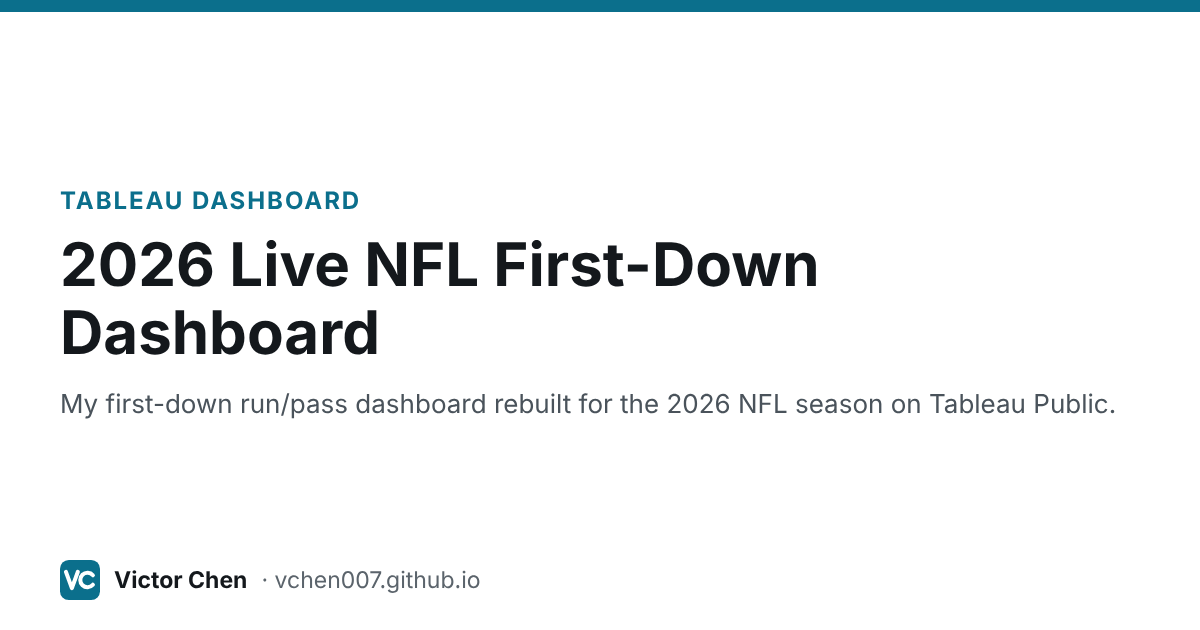
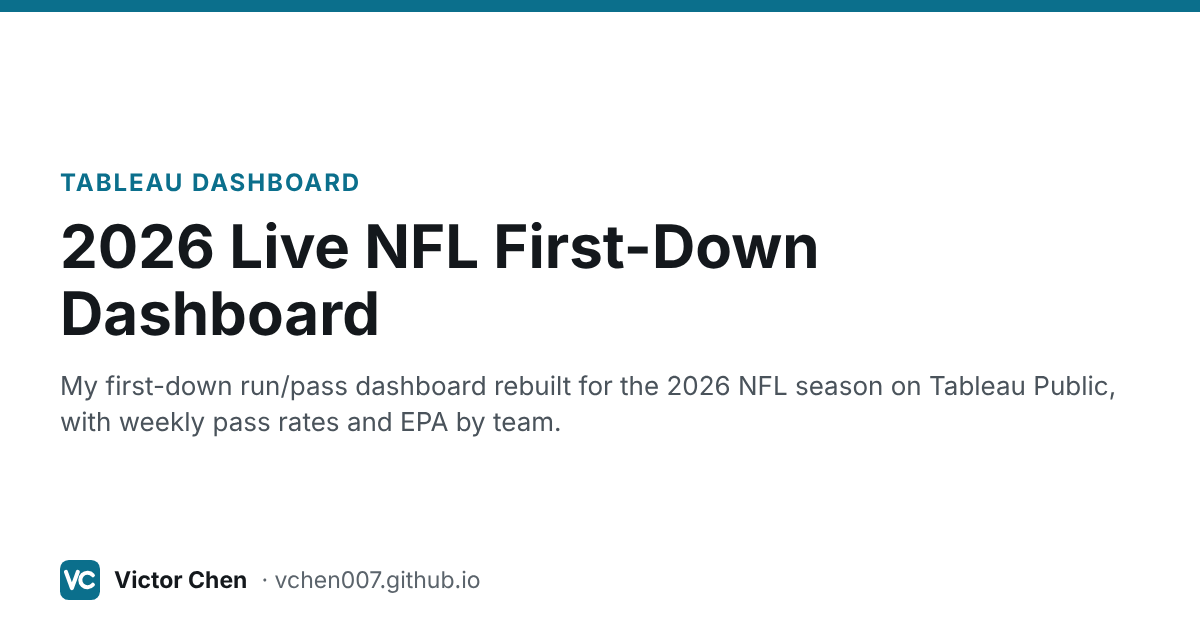
Fix accessibility issues found by axe and refine project summaries
axe-core (WCAG 2.1 AA + best practices) now reports no violations on any
page in either theme. The original site had 214 low-contrast text elements
across nine pages plus a missing image description.

- Darken the light-theme code colours (comments were 3.2:1)
- Keep the disabled pagination link readable
- Label the main and pagination navigation landmarks
- Fix skipped heading levels (share title, project card titles)
- Give pandas tables' empty index header cells screen-reader text
- Make sideways-scrolling tables and code blocks keyboard-focusable
  (assets/js/site.js)
- Proper roles on the chart hit areas of the first-down page
- The 2026 dashboard already tracks EPA by week: say so in its summary and
  position the new page as the ten-season view

Claude-Session: https://claude.ai/code/session_018GuBXZc9pLRR1YqU5q2Umb

Changed region(s): [[0.0308, 0.2714, 0.6783, 0.573], [0.0308, 0.573, 0.925, 0.6937]]

diff --git a/assets/js/first-down-epa.js b/assets/js/first-down-epa.js
@@ -124,7 +124,7 @@
     });
     /* crosshair + tooltip */
     var tip = tooltip(host), cross = el('line', { y1: m.t, y2: H - m.b, 'class': 'crosshair', visibility: 'hidden' }, svg);
-    var hit = el('rect', { x: m.l - 10, y: 0, width: W - m.l - m.r + 20, height: H, fill: 'transparent', tabindex: 0, 'aria-label': 'Chart values: move across to read each season' }, svg);
+    var hit = el('rect', { x: m.l - 10, y: 0, width: W - m.l - m.r + 20, height: H, fill: 'transparent', tabindex: 0, role: 'img', 'aria-label': 'Chart values: use the left and right arrow keys to read each season' }, svg);
     function at(i) {
       var p = points[i]; cross.setAttribute('x1', x(i)); cross.setAttribute('x2', x(i)); cross.setAttribute('visibility', 'visible');
       var rows = series.filter(function (s) { return isFinite(s.get(p)); }).map(function (s) { return { key: s.key, value: opts.fmt(s.get(p), true), label: s.tipLabel }; });
@@ -173,7 +173,7 @@
       var hl = p.team === state.team, cx = x(p.st.passRate), cy = y(p.st.all);
       el('circle', { cx: cx, cy: cy, r: hl ? 7 : 5, 'class': 'dot' + (hl ? ' dot--hl' : '') }, svg);
       if (hl || W >= 560) text(svg, cx, cy - (hl ? 11 : 8), p.team, 'dot-label' + (hl ? ' dot-label--hl' : ''));
-      var hit = el('circle', { cx: cx, cy: cy, r: 12, 'class': 'hit', tabindex: 0, 'aria-label': p.team + ': ' + fmtPct(p.st.passRate) + ' passes, ' + fmtEpa(p.st.all) + ' EPA per play' }, svg);
+      var hit = el('circle', { cx: cx, cy: cy, r: 12, 'class': 'hit', tabindex: 0, role: 'button', 'aria-label': p.team + ': ' + fmtPct(p.st.passRate) + ' passes, ' + fmtEpa(p.st.all) + ' EPA per play' }, svg);
       var show = function () { tip.show(p.team, [
         { value: fmtPct(p.st.passRate), label: 'pass rate' },
         { key: 'pass', value: fmtEpa(p.st.pass), label: 'EPA per pass' },

diff --git a/_portfolio/portfolio-1.html b/_portfolio/portfolio-1.html
@@ -1,6 +1,6 @@
 ---
 title: "2026 Live NFL First-Down Dashboard"
-excerpt: "My first-down run/pass dashboard rebuilt for the 2026 NFL season on Tableau Public."
+excerpt: "My first-down run/pass dashboard rebuilt for the 2026 NFL season on Tableau Public, with weekly pass rates and EPA by team."
 kicker: "Tableau dashboard"
 collection: portfolio
 featured: true
@@ -9,10 +9,10 @@ teaser: "https://public.tableau.com/static/images/20/2026LiveFirstDownDashboard/
 og_image: og/portfolio-1.png
 tools: [Tableau]
 summary:
-  question: "How often are NFL teams running or passing on first down in the 2026 season?"
-  data: "NFL play-by-play data for the 2026 season."
-  approach: "An updated version of my original [first-down dashboard](/portfolio/portfolio-6/), rebuilt for the 2026 season and published on Tableau Public."
-  result: "The full-size interactive dashboard below. For what those first-down calls actually gain, see [Does passing on first down pay off?](/portfolio/first-down-epa/)"
+  question: "How often are NFL teams running or passing on first down in the 2026 season, and what does each choice gain?"
+  data: "NFL play-by-play data for the 2026 regular season, refreshed as the season goes."
+  approach: "An updated version of my original [first-down dashboard](/portfolio/portfolio-6/), rebuilt for 2026 on Tableau Public: each team's pass vs. run share by week, its EPA per play against the NFL average, and first-down pass vs. run EPA."
+  result: "The full-size interactive dashboard below. For the same question across ten seasons, see [Does passing on first down pay off?](/portfolio/first-down-epa/)"
 links:
   - label: "Open in Tableau Public"
     url: "https://public.tableau.com/app/profile/victor.c4632/viz/2026LiveFirstDownDashboard/Dashboard2"

diff --git a/_sass/_theme.scss b/_sass/_theme.scss
@@ -58,13 +58,13 @@
   --c-shadow-hover: 0 2px 4px rgba(16, 24, 40, 0.08), 0 10px 24px rgba(16, 24, 40, 0.12);
   --c-img-bg: transparent;
   --syn-base: #586e75;
-  --syn-comment: #7f8f8f;
-  --syn-green: #6f8000;
-  --syn-blue: #1b8fc0;
-  --syn-cyan: #228a83;
-  --syn-orange: #cb4b16;
-  --syn-red: #dc322f;
-  --syn-yellow: #a77d00;
+  --syn-comment: #5f6f6f;
+  --syn-green: #5b7a00;
+  --syn-blue: #1677a3;
+  --syn-cyan: #1d7a74;
+  --syn-orange: #b8430f;
+  --syn-red: #c42b28;
+  --syn-yellow: #8a6700;
 }
 
 html[data-theme="dark"] {
@@ -230,7 +230,8 @@ thead {
   }
 
   &.disabled {
-    color: var(--c-border-strong);
+    color: var(--c-muted);
+    opacity: 1;
   }
 }
 

diff --git a/_includes/project-card.html b/_includes/project-card.html
@@ -15,7 +15,7 @@
   {% endif %}
   <div class="project-card__body">
     {% if project.kicker %}<p class="project-card__kicker">{{ project.kicker }}</p>{% endif %}
-    <h3 class="project-card__title"><a href="{{ base_path }}{{ project.url }}">{{ project.title }}</a></h3>
+    {% assign level = include.level | default: 3 %}<h{{ level }} class="project-card__title"><a href="{{ base_path }}{{ project.url }}">{{ project.title }}</a></h{{ level }}>
     {% if project.excerpt %}<p class="project-card__excerpt">{{ project.excerpt | markdownify | strip_html | strip_newlines }}</p>{% endif %}
     {% if project.tools %}
       <ul class="chips" aria-label="Tools">

diff --git a/assets/js/site.js b/assets/js/site.js
@@ -1,0 +1,12 @@
+/* Small site-wide helpers. Wide tables and code blocks scroll sideways; make
+   the ones that actually overflow reachable with the keyboard. */
+(function () {
+  var nodes = document.querySelectorAll('.page__content table, .page__content pre');
+  Array.prototype.forEach.call(nodes, function (node) {
+    if (node.scrollWidth > node.clientWidth + 1 && !node.hasAttribute('tabindex')) {
+      node.setAttribute('tabindex', '0');
+      node.setAttribute('role', 'region');
+      node.setAttribute('aria-label', node.tagName === 'PRE' ? 'Code (scrolls sideways)' : 'Table (scrolls sideways)');
+    }
+  });
+})();

diff --git a/_includes/social-share.html b/_includes/social-share.html
@@ -2,7 +2,7 @@
 
 <section class="page__share">
   {% if site.data.ui-text[site.locale].share_on_label %}
-    <h4 class="page__share-title">{{ site.data.ui-text[site.locale].share_on_label | default: "Share on" }}</h4>
+    <p class="page__share-title">{{ site.data.ui-text[site.locale].share_on_label | default: "Share on" }}</p>
   {% endif %}
 
   <a href="https://twitter.com/intent/tweet?text={{ base_path }}{{ page.url }}" class="btn btn--twitter" title="{{ site.data.ui-text[site.locale].share_on_label | default: 'Share on' }} Twitter"><i class="fab fa-twitter" aria-hidden="true"></i><span> Twitter</span></a>

diff --git a/_includes/masthead.html b/_includes/masthead.html
@@ -3,7 +3,7 @@
 <div class="masthead">
   <div class="masthead__inner-wrap">
     <div class="masthead__menu">
-      <nav id="site-nav" class="greedy-nav">
+      <nav id="site-nav" class="greedy-nav" aria-label="Main">
         <button class="hidden" aria-label="More pages"><div class="navicon"></div></button>
         <ul class="visible-links">
           <li class="masthead__menu-item masthead__menu-item--lg"><a href="{{ base_path }}/">{{ site.title }}</a></li>

diff --git a/_includes/post_pagination.html b/_includes/post_pagination.html
@@ -1,7 +1,7 @@
 {% include base_path %}
 
 {% if page.previous or page.next %}
-  <nav class="pagination">
+  <nav class="pagination" aria-label="More projects">
     {% if page.previous %}
       <a href="{{ base_path }}{{ page.previous.url }}" class="pagination--pager" title="{{ page.previous.title | markdownify | strip_html }}">{{ site.data.ui-text[site.locale].pagination_previous | default: "Previous" }}</a>
     {% else %}

diff --git a/_includes/scripts.html b/_includes/scripts.html
@@ -1,5 +1,6 @@
 <script src="{{ base_path }}/assets/js/main.min.js"></script>
 <script src="{{ base_path }}/assets/js/theme-toggle.js"></script>
+<script src="{{ base_path }}/assets/js/site.js"></script>
 
 {% include analytics.html %}
 {% include /comments-providers/scripts.html %}

diff --git a/_pages/portfolio.html b/_pages/portfolio.html
@@ -12,6 +12,6 @@ author_profile: true
 
 <div class="project-grid">
 {% for project in site.portfolio %}
-  {% include project-card.html project=project %}
+  {% include project-card.html project=project level=2 %}
 {% endfor %}
 </div>

diff --git a/_portfolio/portfolio-0.md b/_portfolio/portfolio-0.md
@@ -9,7 +9,7 @@ teaser: first-down-epa.png
 og_image: og/portfolio-0.png
 tools: [Python, pandas, nflverse, JavaScript, SVG]
 summary:
-  question: "My Tableau dashboards show how often NFL teams run or pass on first down. Which choice actually gains more?"
+  question: "Over a decade of NFL play-by-play, does a first-down pass or run gain more, and has play-calling caught up?"
   data: "Every regular-season first-down run and pass from 2016 through Week 8 of 2026 (157,728 plays), from nflverse play-by-play, which includes expected points added (EPA) for each play."
   approach: "A Python pipeline filters the plays, sorts each one by game situation and field position, and writes a compact data file. The charts below are drawn in plain JavaScript and SVG, so every filter recalculates in the browser."
   result: "In neutral game situations, first-down passes averaged +0.10 EPA per play and runs −0.10, a gap that shows up in every season. Teams still passed only 47% of the time, and runs beat passes in just 23 of 352 team-seasons."
@@ -20,7 +20,7 @@ links:
     url: "https://github.com/vchen007/vchen007.github.io/blob/master/_scripts/first_down_epa.py"
 ---
 
-My [first-down dashboards](/portfolio/portfolio-6/) show how often teams run or pass on first down. This follow-up asks the next question: what does each choice gain? I measure that with **expected points added (EPA)**, which compares the expected points of the next play's down, distance and field position with those before the snap. A 5-yard run on 1st & 10 is worth a little; a 20-yard completion is worth a lot; a sack or interception costs points.
+My [first-down dashboard](/portfolio/portfolio-6/) shows how often teams run or pass on first down, and the [2026 live version](/portfolio/portfolio-1/) tracks this season's run/pass split and EPA. This page steps back to ten-plus seasons and asks whether the choice pays off, and whether play-calling has changed because of it. I measure the payoff with **expected points added (EPA)**, which compares the expected points of the next play's down, distance and field position with those before the snap. A 5-yard run on 1st & 10 is worth a little; a 20-yard completion is worth a lot; a sack or interception costs points.
 
 <div class="fd-tiles" id="fd-tiles" aria-live="polite">
   <div class="fd-tile"><span class="fd-tile__value" data-tile="passRate">47%</span><span class="fd-tile__label">of first-down plays were passes</span></div>
@@ -58,17 +58,17 @@ My [first-down dashboards](/portfolio/portfolio-6/) show how often teams run or 
 
   <figure class="fd-chart">
     <figcaption><strong>EPA per play on first down, by season</strong><span class="fd-legend"><span class="fd-key fd-key--pass"></span>Passes <span class="fd-key fd-key--run"></span>Runs</span></figcaption>
-    <div class="fd-svg" id="fd-trend" role="img" aria-label="Line chart of EPA per play for first-down passes and runs by season"></div>
+    <div class="fd-svg" id="fd-trend" role="group" aria-label="Line chart of EPA per play for first-down passes and runs by season"></div>
   </figure>
 
   <figure class="fd-chart">
     <figcaption><strong>Share of first-down plays that were passes</strong></figcaption>
-    <div class="fd-svg" id="fd-rate" role="img" aria-label="Line chart of the first-down pass rate by season"></div>
+    <div class="fd-svg" id="fd-rate" role="group" aria-label="Line chart of the first-down pass rate by season"></div>
   </figure>
 
   <figure class="fd-chart">
     <figcaption><strong>Teams: pass rate vs. EPA per first-down play</strong><span class="fd-sub" id="fd-scatter-sub"></span></figcaption>
-    <div class="fd-svg" id="fd-scatter" role="img" aria-label="Scatter plot of each team's first-down pass rate against its EPA per first-down play"></div>
+    <div class="fd-svg" id="fd-scatter" role="group" aria-label="Scatter plot of each team's first-down pass rate against its EPA per first-down play"></div>
   </figure>
 
   <p class="fd-team-note" id="fd-team-note" aria-live="polite"></p>

diff --git a/_portfolio/portfolio-5.md b/_portfolio/portfolio-5.md
@@ -78,7 +78,7 @@ df.head()
 <table border="1" class="dataframe">
   <thead>
     <tr style="text-align: right;">
-      <th></th>
+      <th><span class="sr-only">Row</span></th>
       <th>PLAYER</th>
       <th>POS</th>
       <th>TEAM</th>
@@ -253,7 +253,7 @@ df.head()
 <table border="1" class="dataframe">
   <thead>
     <tr style="text-align: right;">
-      <th></th>
+      <th><span class="sr-only">Row</span></th>
       <th>PLAYER</th>
       <th>TEAM</th>
       <th>OPP</th>
@@ -1248,7 +1248,7 @@ excel_output
 <table border="1" class="dataframe">
   <thead>
     <tr style="text-align: right;">
-      <th></th>
+      <th><span class="sr-only">Row</span></th>
       <th>Position</th>
       <th>Player</th>
       <th>Projected Points</th>
